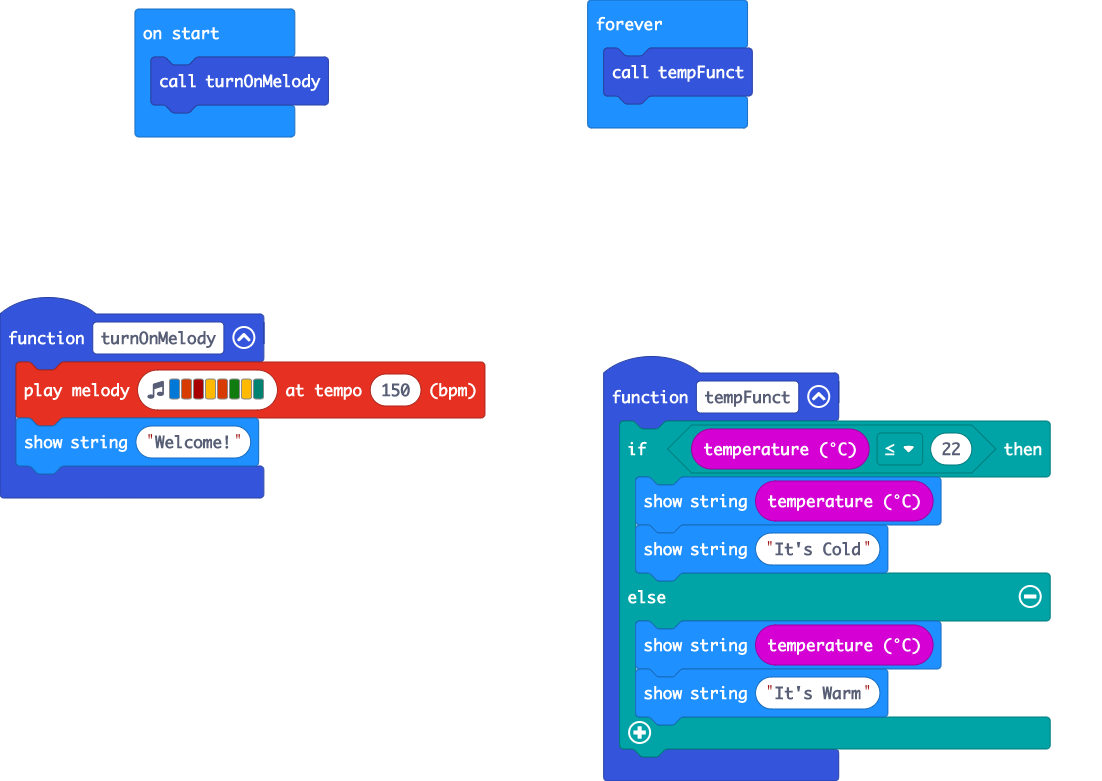
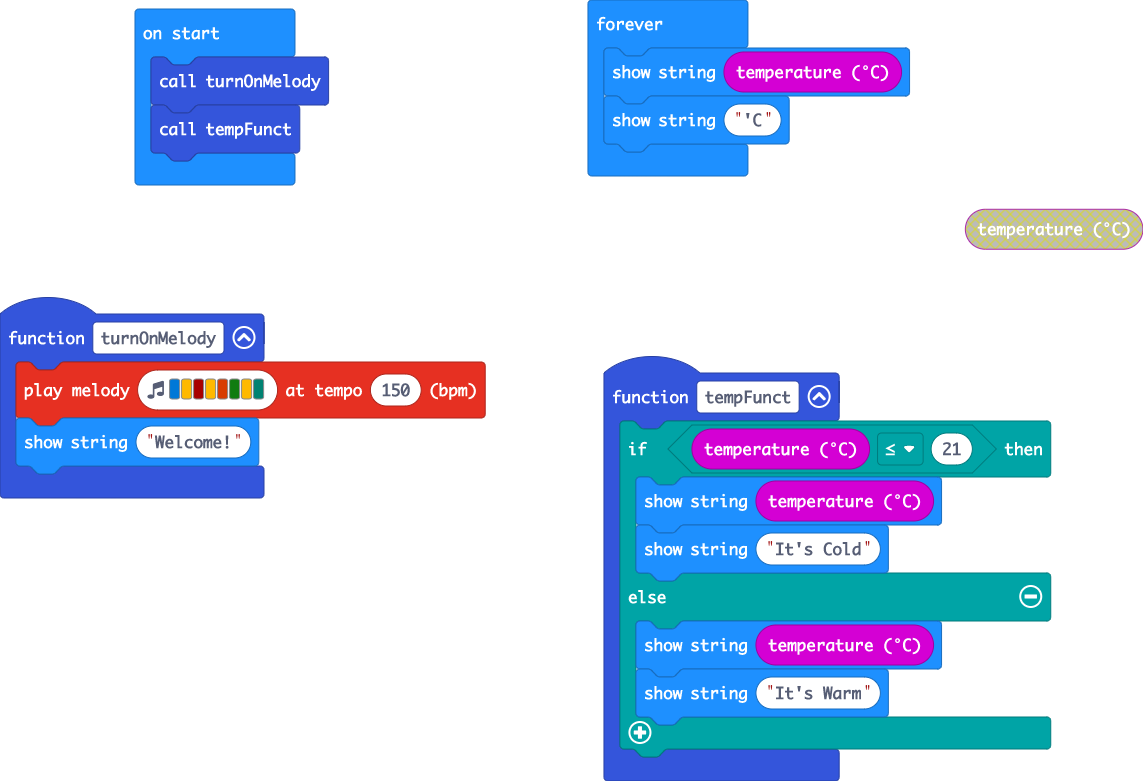
Update main.blocks, main.ts

diff --git a/main.ts b/main.ts
@@ -1,5 +1,5 @@
 function tempFunct () {
-    if (input.temperature() <= 22) {
+    if (input.temperature() <= 21) {
         basic.showString("" + (input.temperature()))
         basic.showString("It's Cold")
     } else {
@@ -8,10 +8,12 @@ function tempFunct () {
     }
 }
 function turnOnMelody () {
-    music.playMelody("E B C5 A B G A F ", 150)
+    music.playMelody("E A C5 A B G A F ", 150)
     basic.showString("Welcome!")
 }
 turnOnMelody()
+tempFunct()
 basic.forever(function () {
-    tempFunct()
+    basic.showString("" + (input.temperature()))
+    basic.showString("'C")
 })
